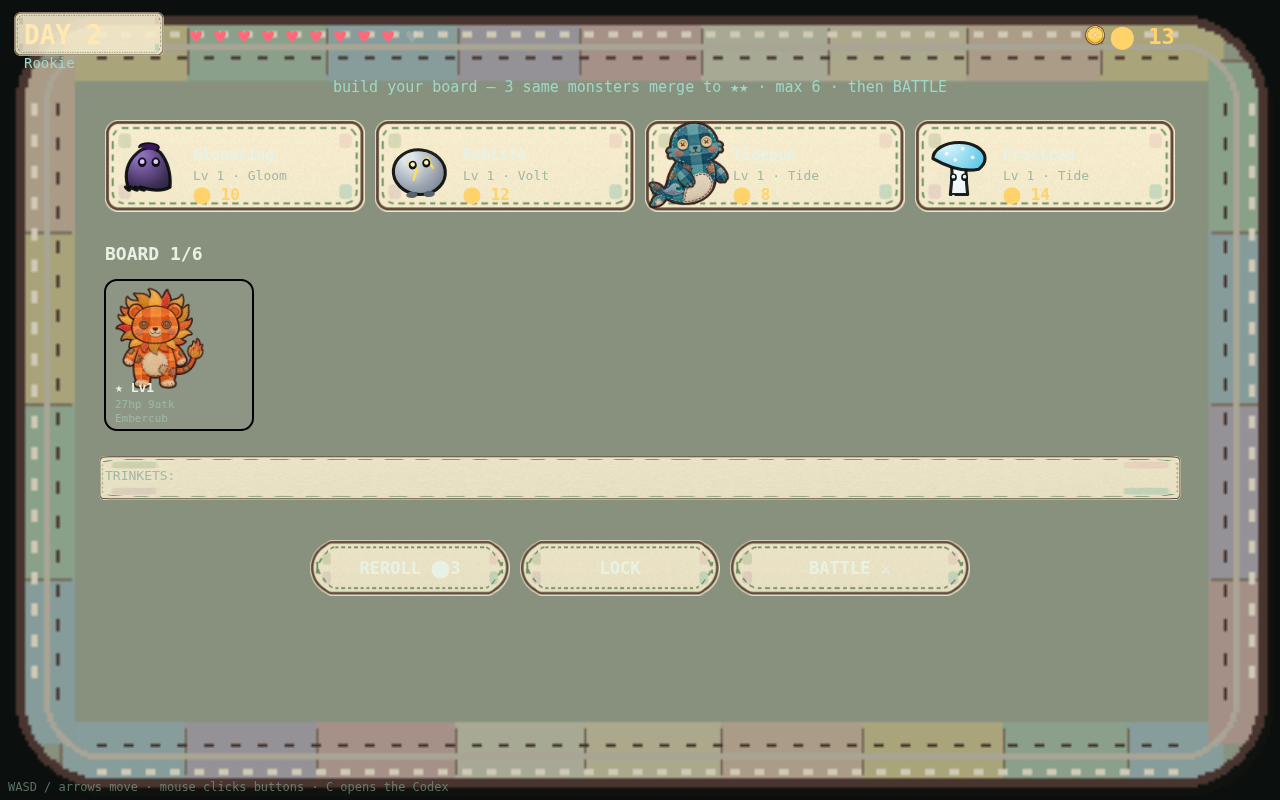
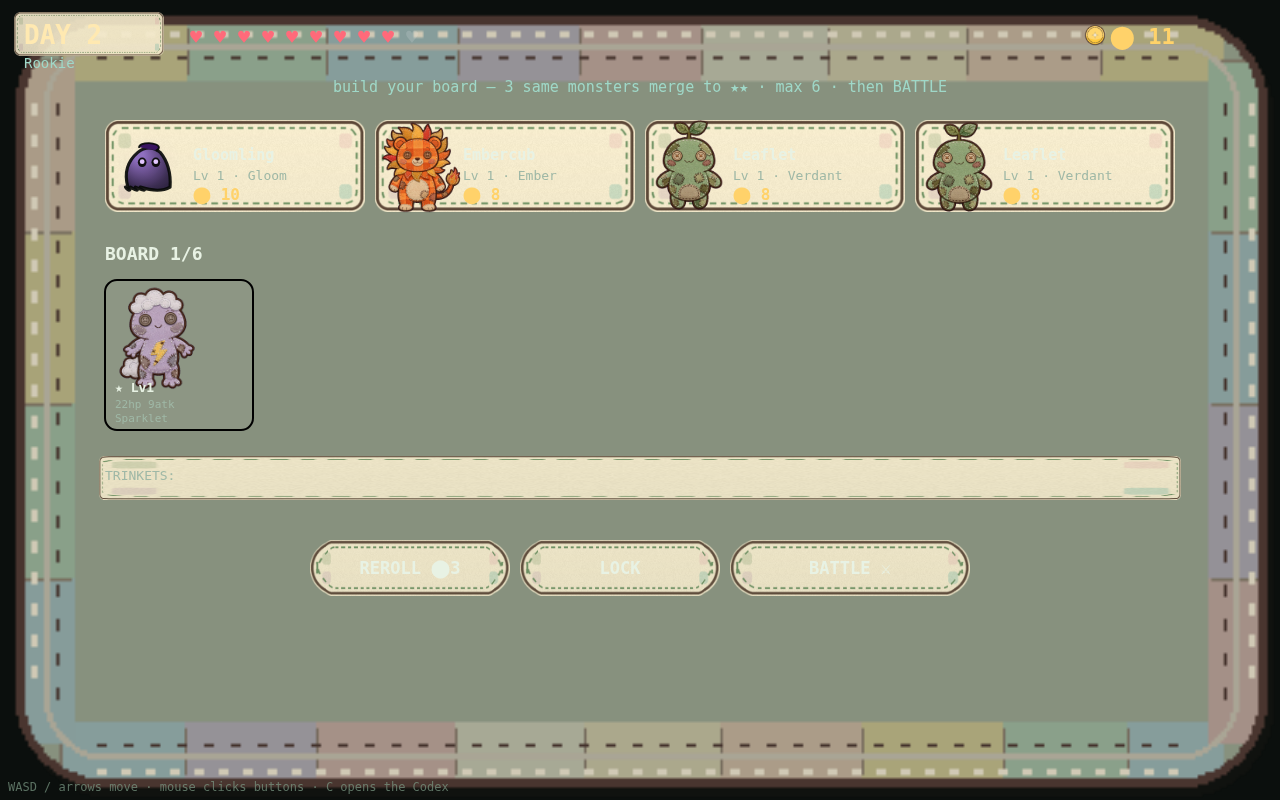
Run: shop item purchases work (heal_board/buff/shield_next); loadData reads monsters.json into SPECIES

diff --git a/game/src/run.js b/game/src/run.js
@@ -5,7 +5,7 @@
 // Data contract: game/data/trainers|shop|trinkets.json (Manus). Built-in tables
 // below are the fallback so the loop ships before the JSON lands.
 import { VIEW_W, VIEW_H, ELEMENT_COLORS } from './config.js?v=run1';
-import { SPECIES, abilityForSpecies } from './data.js?v=run1';
+import { SPECIES, SPECIES_LIST, abilityForSpecies } from './data.js?v=run1';
 import { mulberry32, rint } from './random.js?v=run1';
 import { panel, roundRect, drawSlice } from './hud.js?v=run1';
 import { drawCreature } from './art.js?v=run1';
@@ -61,8 +61,12 @@ export function makeRun(seed, trainerId = null) {
 const shopFor = (run) => {
   const rng = run.rng;
   const items = [];
+  const foolGold = run.trinkets.some((t) => t.id === 'fools_gold');
+  // Fool's Gold: shop stops stocking items entirely (pool filtered to monsters).
+  const pool = foolGold ? BUILTIN_SHOP.filter((s) => s.kind !== 'item') : BUILTIN_SHOP;
   for (let i = 0; i < 4; i++) {
-    const s = BUILTIN_SHOP[Math.floor(rng() * BUILTIN_SHOP.length)];
+    const s = pool[Math.floor(rng() * pool.length)];
+    if (s.kind === 'item') { items.push({ ...s }); continue; }
     items.push({ species: s.species, cost: s.cost, lvl: 1 + Math.floor(run.day / 4) });
   }
   return items;
@@ -80,11 +84,17 @@ export function freeRerolls(run) {
   return run.trinkets.reduce((a, x) => a + (x.effect.type === 'reroll_free' ? x.effect.value : 0), 0);
 }
 
-/** Buy shop slot i onto the board (merge-3 auto). Returns error string or null. */
+/** Buy shop slot i (monster -> board w/ auto-merge; item -> instant effect). Error string or null. */
 export function buy(run, i) {
   const offer = run.shop[i]; if (!offer) return 'empty slot';
-  if (run.board.length >= 6) return 'board full (6)';
   if (run.coins < offer.cost) return 'not enough coins';
+  if (offer.kind === 'item') {
+    run.coins -= offer.cost;
+    run.shop[i] = null;
+    applyItem(run, offer);
+    return null;
+  }
+  if (run.board.length >= 6) return 'board full (6)';
   run.coins -= offer.cost;
   run.shop[i] = null;
   const c = makeCreature(offer.species, offer.lvl);
@@ -92,6 +102,25 @@ export function buy(run, i) {
   run.board.push(c);
   autoMerge(run);
   return null;
+}
+
+/** Item effects (shop.json kind:'item'). Types: heal_board, buff (stat on target 'all'|'lowest'|'leftmost'), shield_next (battle-start shield bonus). Unknown type = cosmetic, still consumable. */
+function applyItem(run, offer) {
+  const e = offer.effect || {};
+  if (e.type === 'heal_board') {
+    run.board.forEach((c) => { c.hp = Math.min(c.maxHp, c.hp + (e.value || 10)); });
+  } else if (e.type === 'buff') {
+    const stat = e.stat || 'atk';
+    let targets = run.board;
+    if (e.target === 'lowest') targets = [run.board.slice().sort((a, b) => a.stats[stat] - b.stats[stat])[0]].filter(Boolean);
+    if (e.target === 'leftmost') targets = run.board.length ? [run.board[0]] : [];
+    targets.forEach((c) => {
+      c.stats[stat] = (c.stats[stat] || 0) + (e.value || 1);
+      if (stat === 'hp') { c.maxHp = c.stats.hp; c.hp = c.stats.hp; }
+    });
+  } else if (e.type === 'shield_next') {
+    run.itemShield = (run.itemShield || 0) + (e.value || 4); // consumed at battle start in stageBattle
+  }
 }
 
 /** Sell board slot i for half cost. */
@@ -194,14 +223,30 @@ export function applyPassive(run, won) {
 }
 
 // live trainer table = JSON overlay (when data/trainers.json ships) merged over built-ins
+const ELEMENT_DEFAULT_MOVE = { Ember: 'emberDart', Verdant: 'leafLash', Volt: 'sparkJolt', Tide: 'bubbleFlick', Gloom: 'gloomSpore' };
 export let TRAINERS_BY_ID = Object.fromEntries(BUILTIN_TRAINERS.map((t) => [t.id, t]));
 export async function loadData() {
   try {
-    const [tr, sh, tk] = await Promise.all([
+    const [tr, sh, tk, mn] = await Promise.all([
       fetch('data/trainers.json').then((r) => r.ok ? r.json() : null).catch(() => null),
       fetch('data/shop.json').then((r) => r.ok ? r.json() : null).catch(() => null),
       fetch('data/trinkets.json').then((r) => r.ok ? r.json() : null).catch(() => null),
+      fetch('data/monsters.json').then((r) => r.ok ? r.json() : null).catch(() => null),
     ]);
+    if (Array.isArray(mn) && mn.length) {
+      // merge/override species rows into SPECIES (keeps art/moves fallbacks for unknown art)
+      for (const m of mn) {
+        if (!m || !m.id) continue;
+        SPECIES[m.id] = {
+          id: m.id, name: m.name || m.id, element: m.element || 'Gloom',
+          desc: m.desc || '', base: m.base || { hp: 24, atk: 8, def: 6, spd: 7 },
+          xpYield: m.xpYield || 30, rarity: m.rarity || 2,
+          ability: m.ability || undefined,
+          learn: Array.isArray(m.learn) && m.learn.length ? m.learn : [{ lv: 1, move: (ELEMENT_DEFAULT_MOVE[m.element] || 'gloomSpore') }],
+        };
+        if (Array.isArray(SPECIES_LIST) && !SPECIES_LIST.includes(m.id)) SPECIES_LIST.push(m.id);
+      }
+    }
     if (Array.isArray(tr) && tr.length) { BUILTIN_TRAINERS.length = 0; BUILTIN_TRAINERS.push(...tr); TRAINERS_BY_ID = Object.fromEntries(tr.map((t) => [t.id, t])); }
     if (Array.isArray(sh) && sh.length) { BUILTIN_SHOP.length = 0; BUILTIN_SHOP.push(...sh); }
     if (Array.isArray(tk) && tk.length) { BUILTIN_TRINKETS.length = 0; BUILTIN_TRINKETS.push(...tk); }
@@ -356,7 +401,14 @@ function drawShop(ctx, run, t, mouse) {
       roundRect(ctx, b.x, b.y, b.w, b.h, 12); ctx.fill();
       ctx.strokeStyle = offer ? EL_COLOR(offer.species) : '#556'; ctx.lineWidth = 2; ctx.stroke();
     }
-    if (offer) {
+    if (offer && offer.kind === 'item') {
+      ctx.fillStyle = '#e8f2e4'; ctx.font = 'bold 15px monospace';
+      ctx.fillText(offer.name || 'Item', b.x + 16, b.y + 34);
+      ctx.font = '12px monospace'; ctx.fillStyle = '#9fb8a6';
+      wrapLeft(ctx, offer.text || 'one-shot boost', b.x + 16, b.y + 54, b.w - 90, 15);
+      ctx.fillStyle = '#ffd26a'; ctx.font = 'bold 16px monospace';
+      ctx.fillText(`⬤ ${offer.cost}`, b.x + 88, b.y + 80);
+    } else if (offer) {
       ctx.save(); ctx.translate(b.x + 44, b.y + 46); ctx.scale(0.62, 0.62);
       drawCreature(ctx, offer.species, 0, 0, t + i, 'idle'); ctx.restore();
       ctx.fillStyle = '#e8f2e4'; ctx.font = 'bold 15px monospace';

diff --git a/game/src/main.js b/game/src/main.js
@@ -403,6 +403,12 @@ function startRunBattle(run) {
   const opp = makeOpponent(run);
   const playerUnits = run.board.filter((c) => c.hp > 0);
   if (!playerUnits.length) { run.phase = 'shop'; return; }
+  if (run.itemShield) { // one-shot shield from shop items: leftmost +HP, consumed now
+    const first = playerUnits[0];
+    first.stats = { ...first.stats, hp: first.stats.hp + run.itemShield };
+    first.hp = first.stats.hp;
+    run.itemShield = 0;
+  }
   // fresh HP each battle (SAP resets between fights? no — stats persist; heal to full at Day start instead)
   const sd = new SHOWDOWN_CLASS(playerUnits, opp.squad, 'run', null);
   sd.zone = ['moss', 'cliff', 'temple'][run.day % 3];
